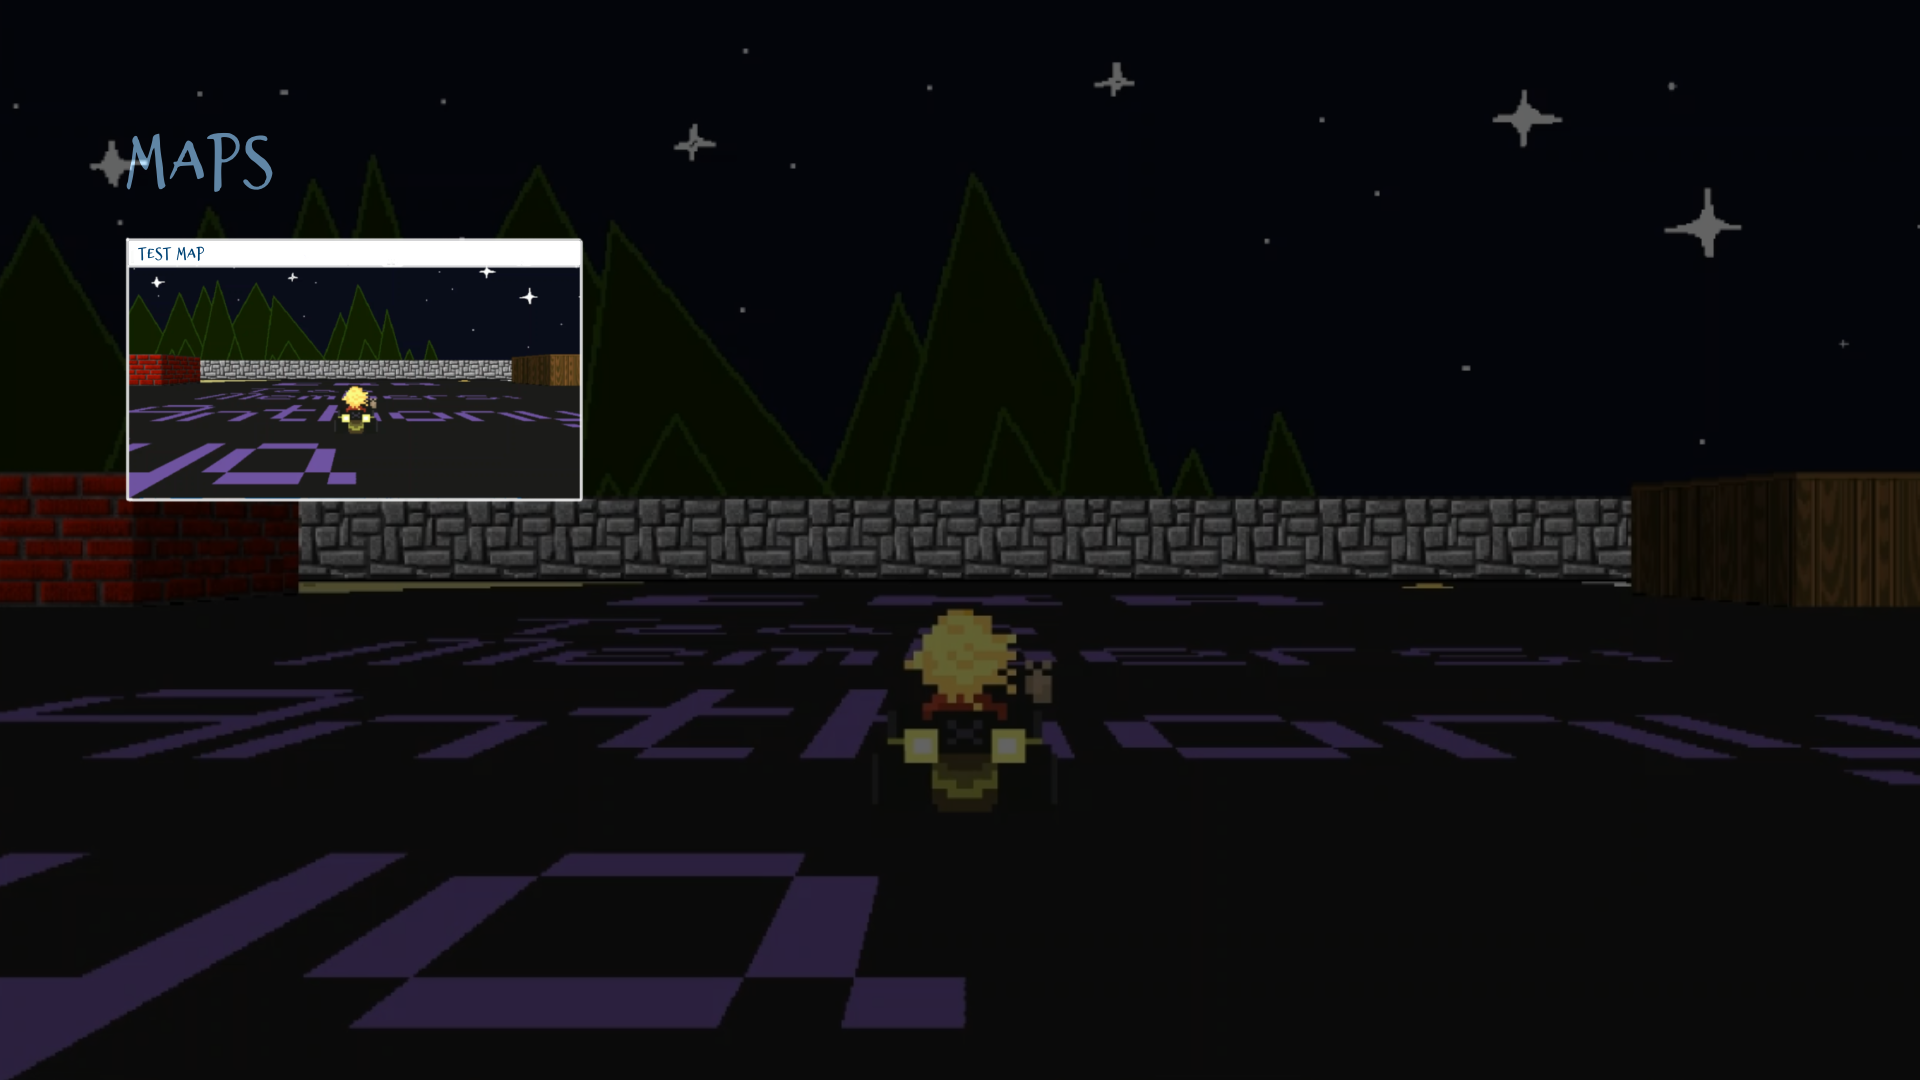
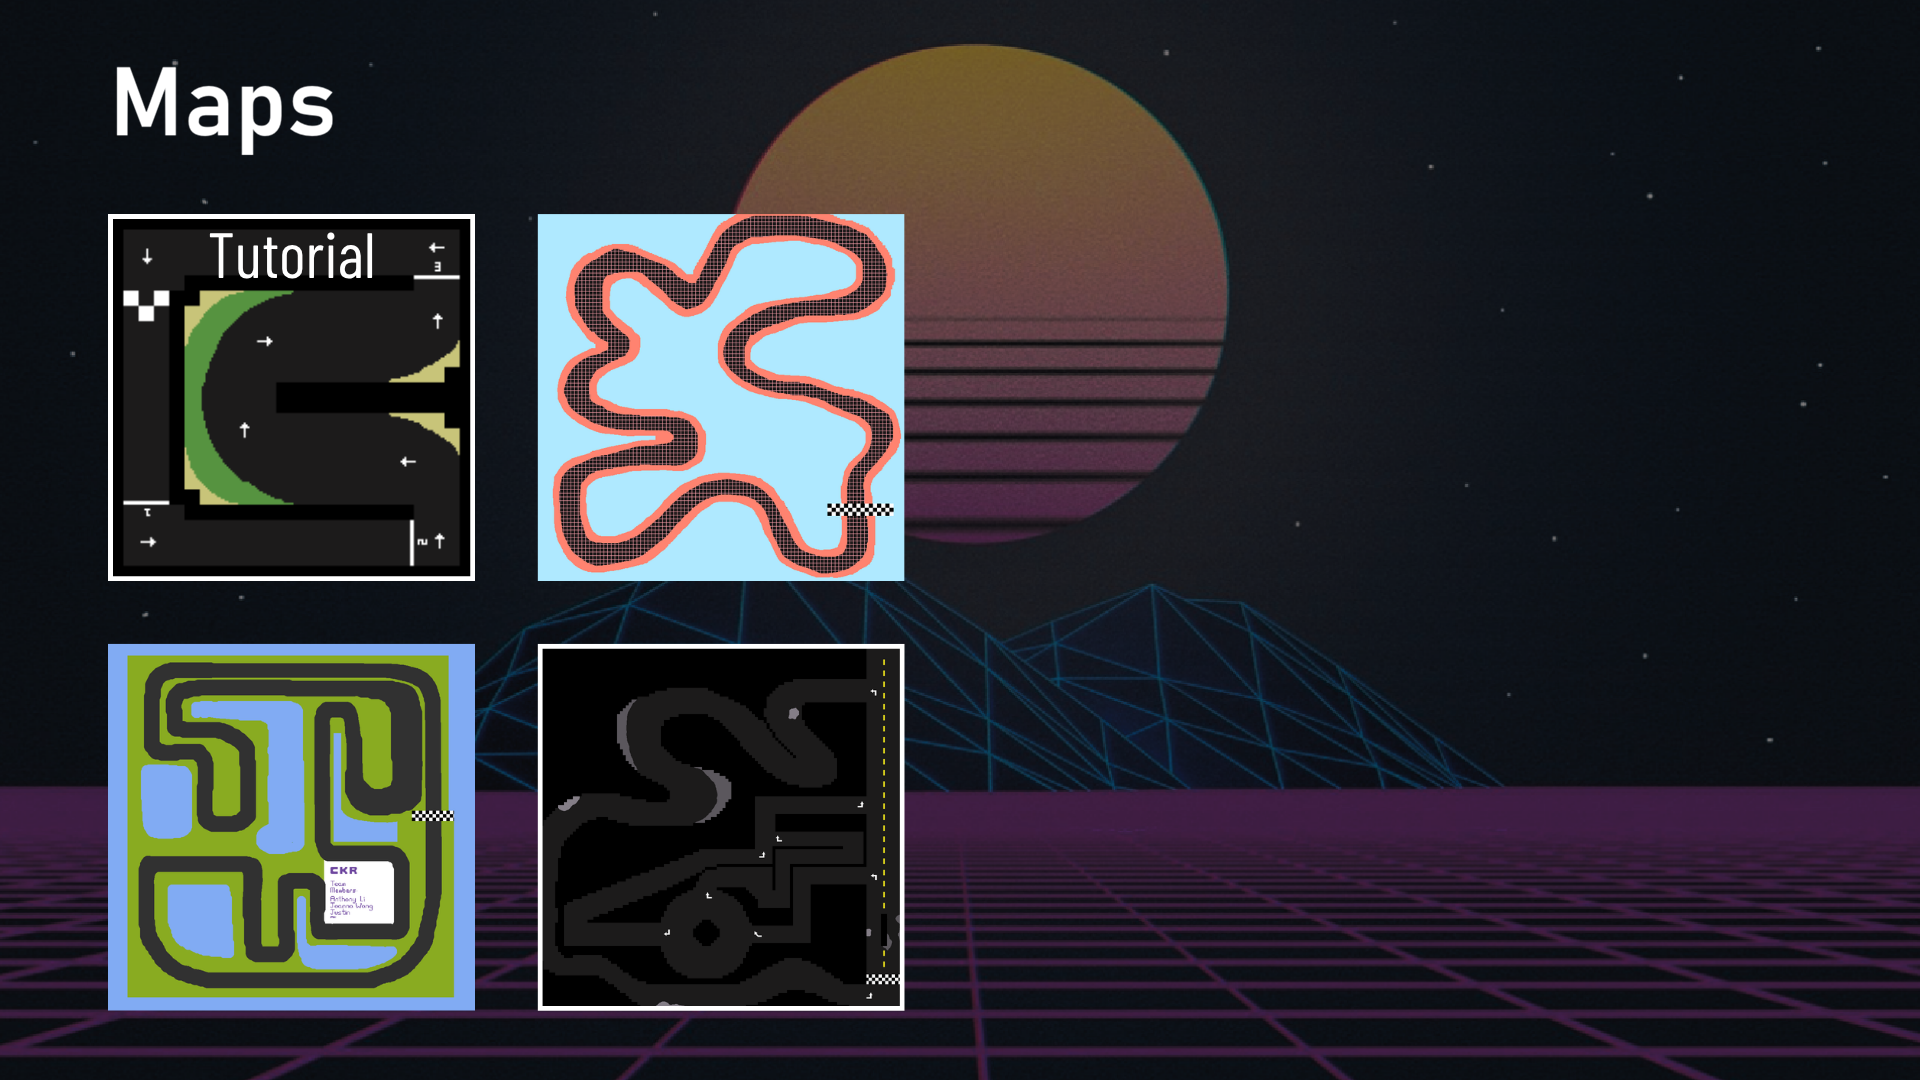
menu screen

diff --git a/CentralKartRacing/src/MapSelectionScreen.java b/CentralKartRacing/src/MapSelectionScreen.java
@@ -19,8 +19,8 @@ public class MapSelectionScreen extends Screen{
     int nameX = rankX + 28 * Renderer.scalingFactor;
     int timeX = nameX + 175 * Renderer.scalingFactor; 
 
-    String[] mapNames = {"Tutorial", "Sunset", "WindowsXP", "Mall"};
-    String[] mapFolders = {"tutorialMap", "sunsetMap", "windowsXPMap", "mallMap"};
+    String[] mapNames = {"Tutorial", "Sunset", "WindowsXP", "City"};
+    String[] mapFolders = {"tutorialMap", "sunsetMap", "windowsXPMap", "cityMap"};
 
     Font font = new Font("Bahnschrift", Font.BOLD, 20);
 
@@ -33,12 +33,12 @@ public class MapSelectionScreen extends Screen{
         totalOptionsY = 2;
         selectedIndexX = 0;
         selectedIndexY = 0;
-        boxX = 65 * Renderer.scalingFactor;
-        boxY = 120 * Renderer.scalingFactor;
-        boxWidth = 226 * Renderer.scalingFactor;
-        boxHeight = 130 * Renderer.scalingFactor;
-        spacingX = 283 * Renderer.scalingFactor;
-        spacingY = 170 * Renderer.scalingFactor;
+        boxX = 55 * Renderer.scalingFactor;
+        boxY = 109 * Renderer.scalingFactor;
+        boxWidth = 183 * Renderer.scalingFactor;
+        boxHeight = boxWidth;
+        spacingX = (boxWidth + 30) * Renderer.scalingFactor;
+        spacingY = spacingX;
     }
 
 
